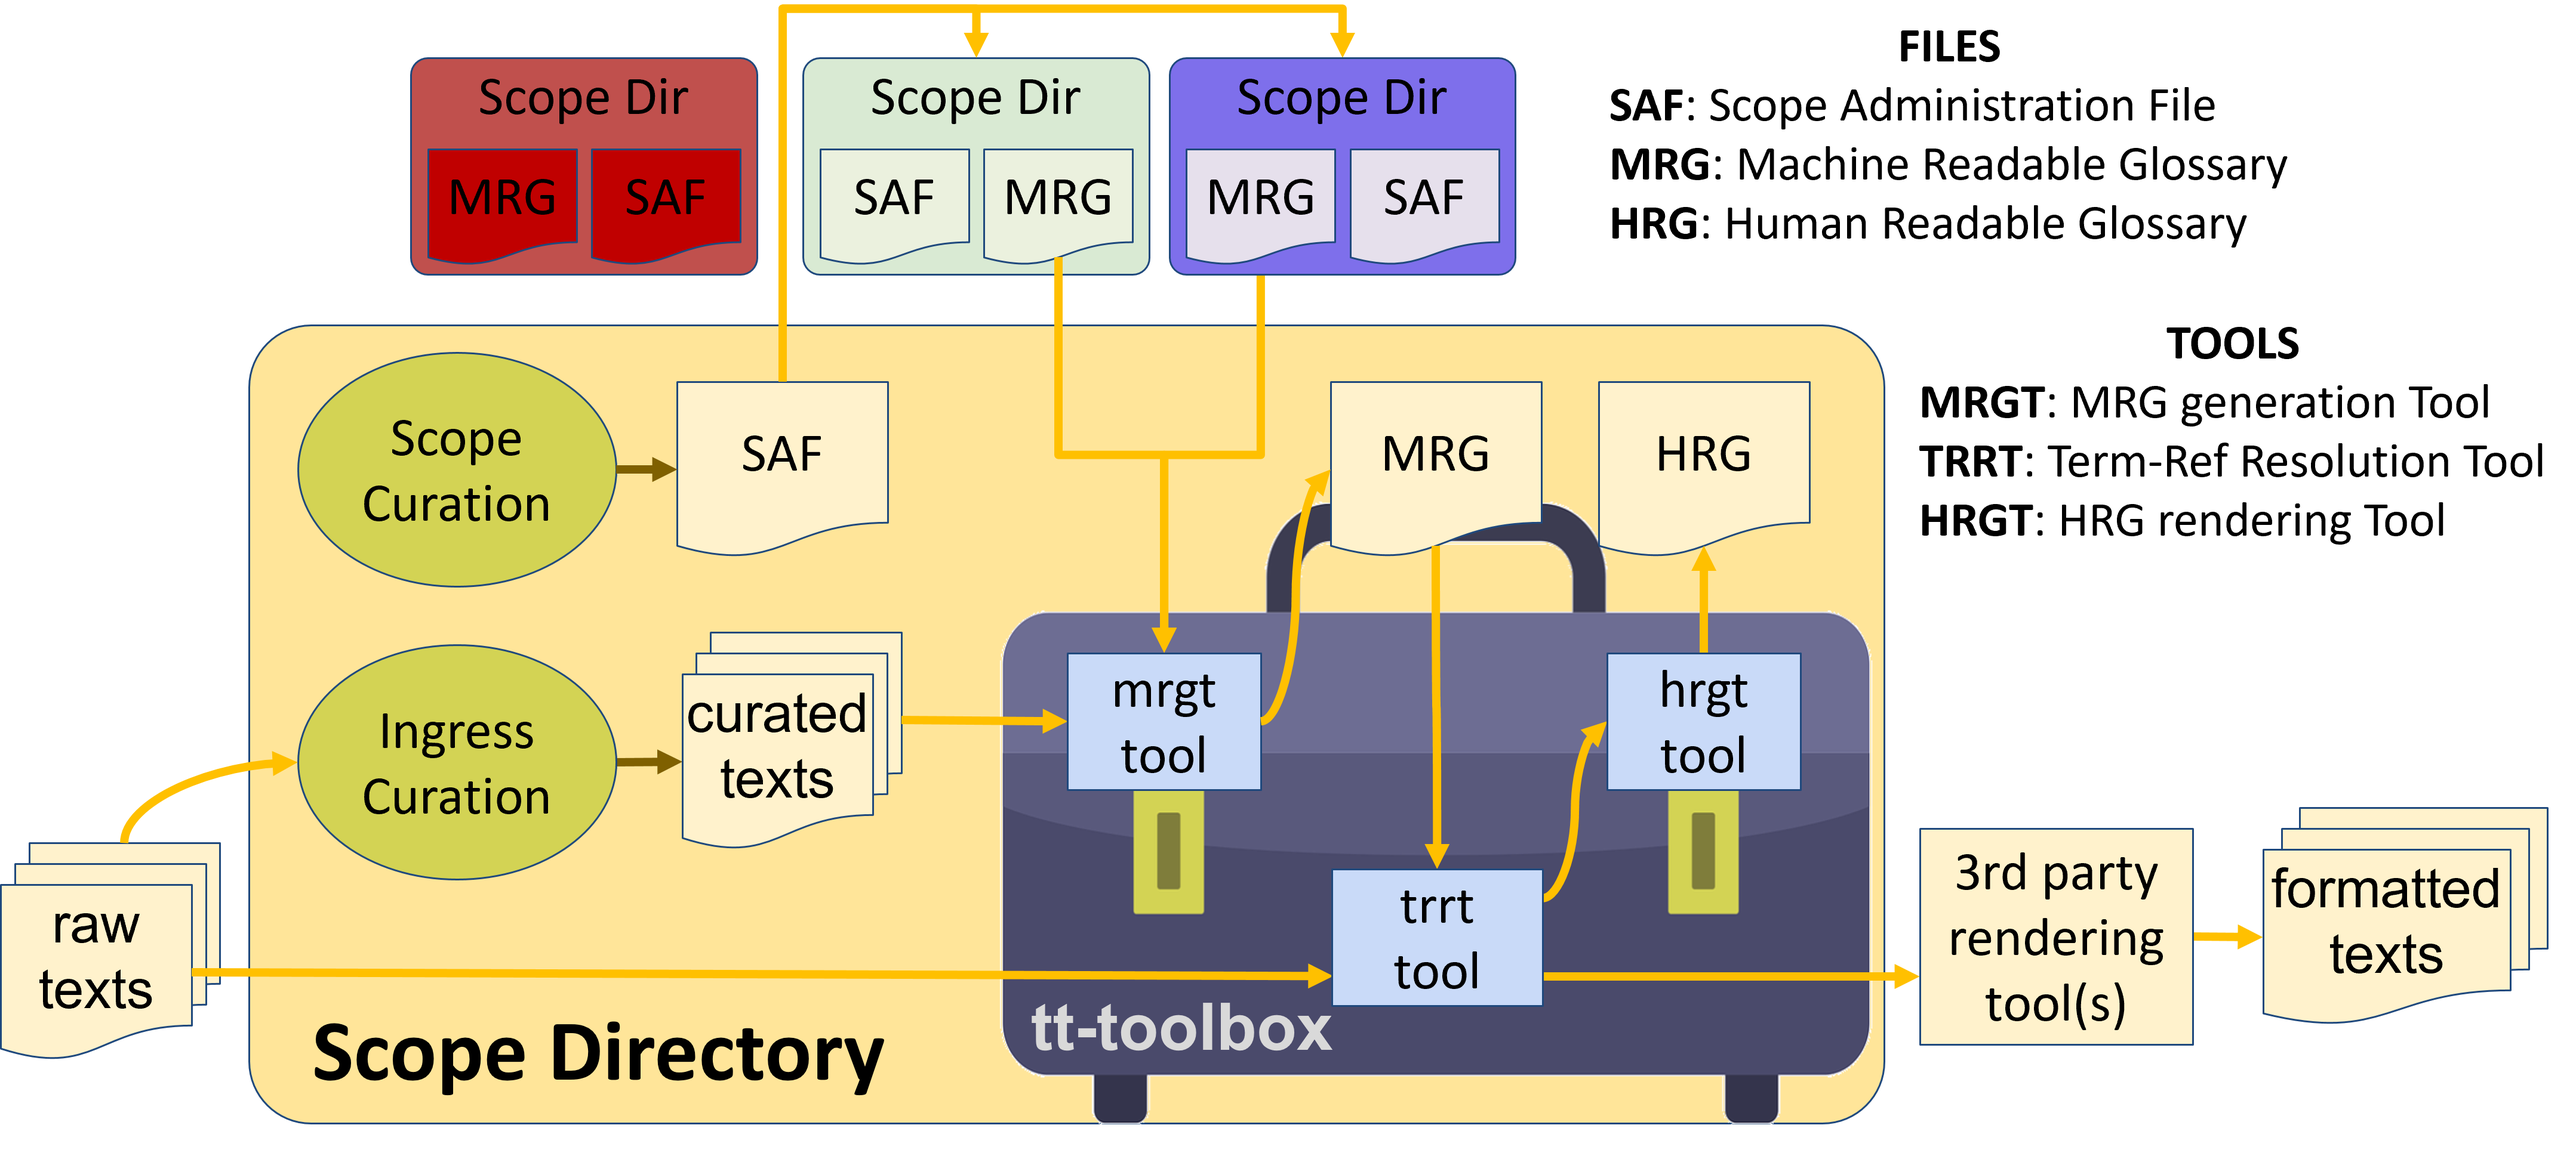
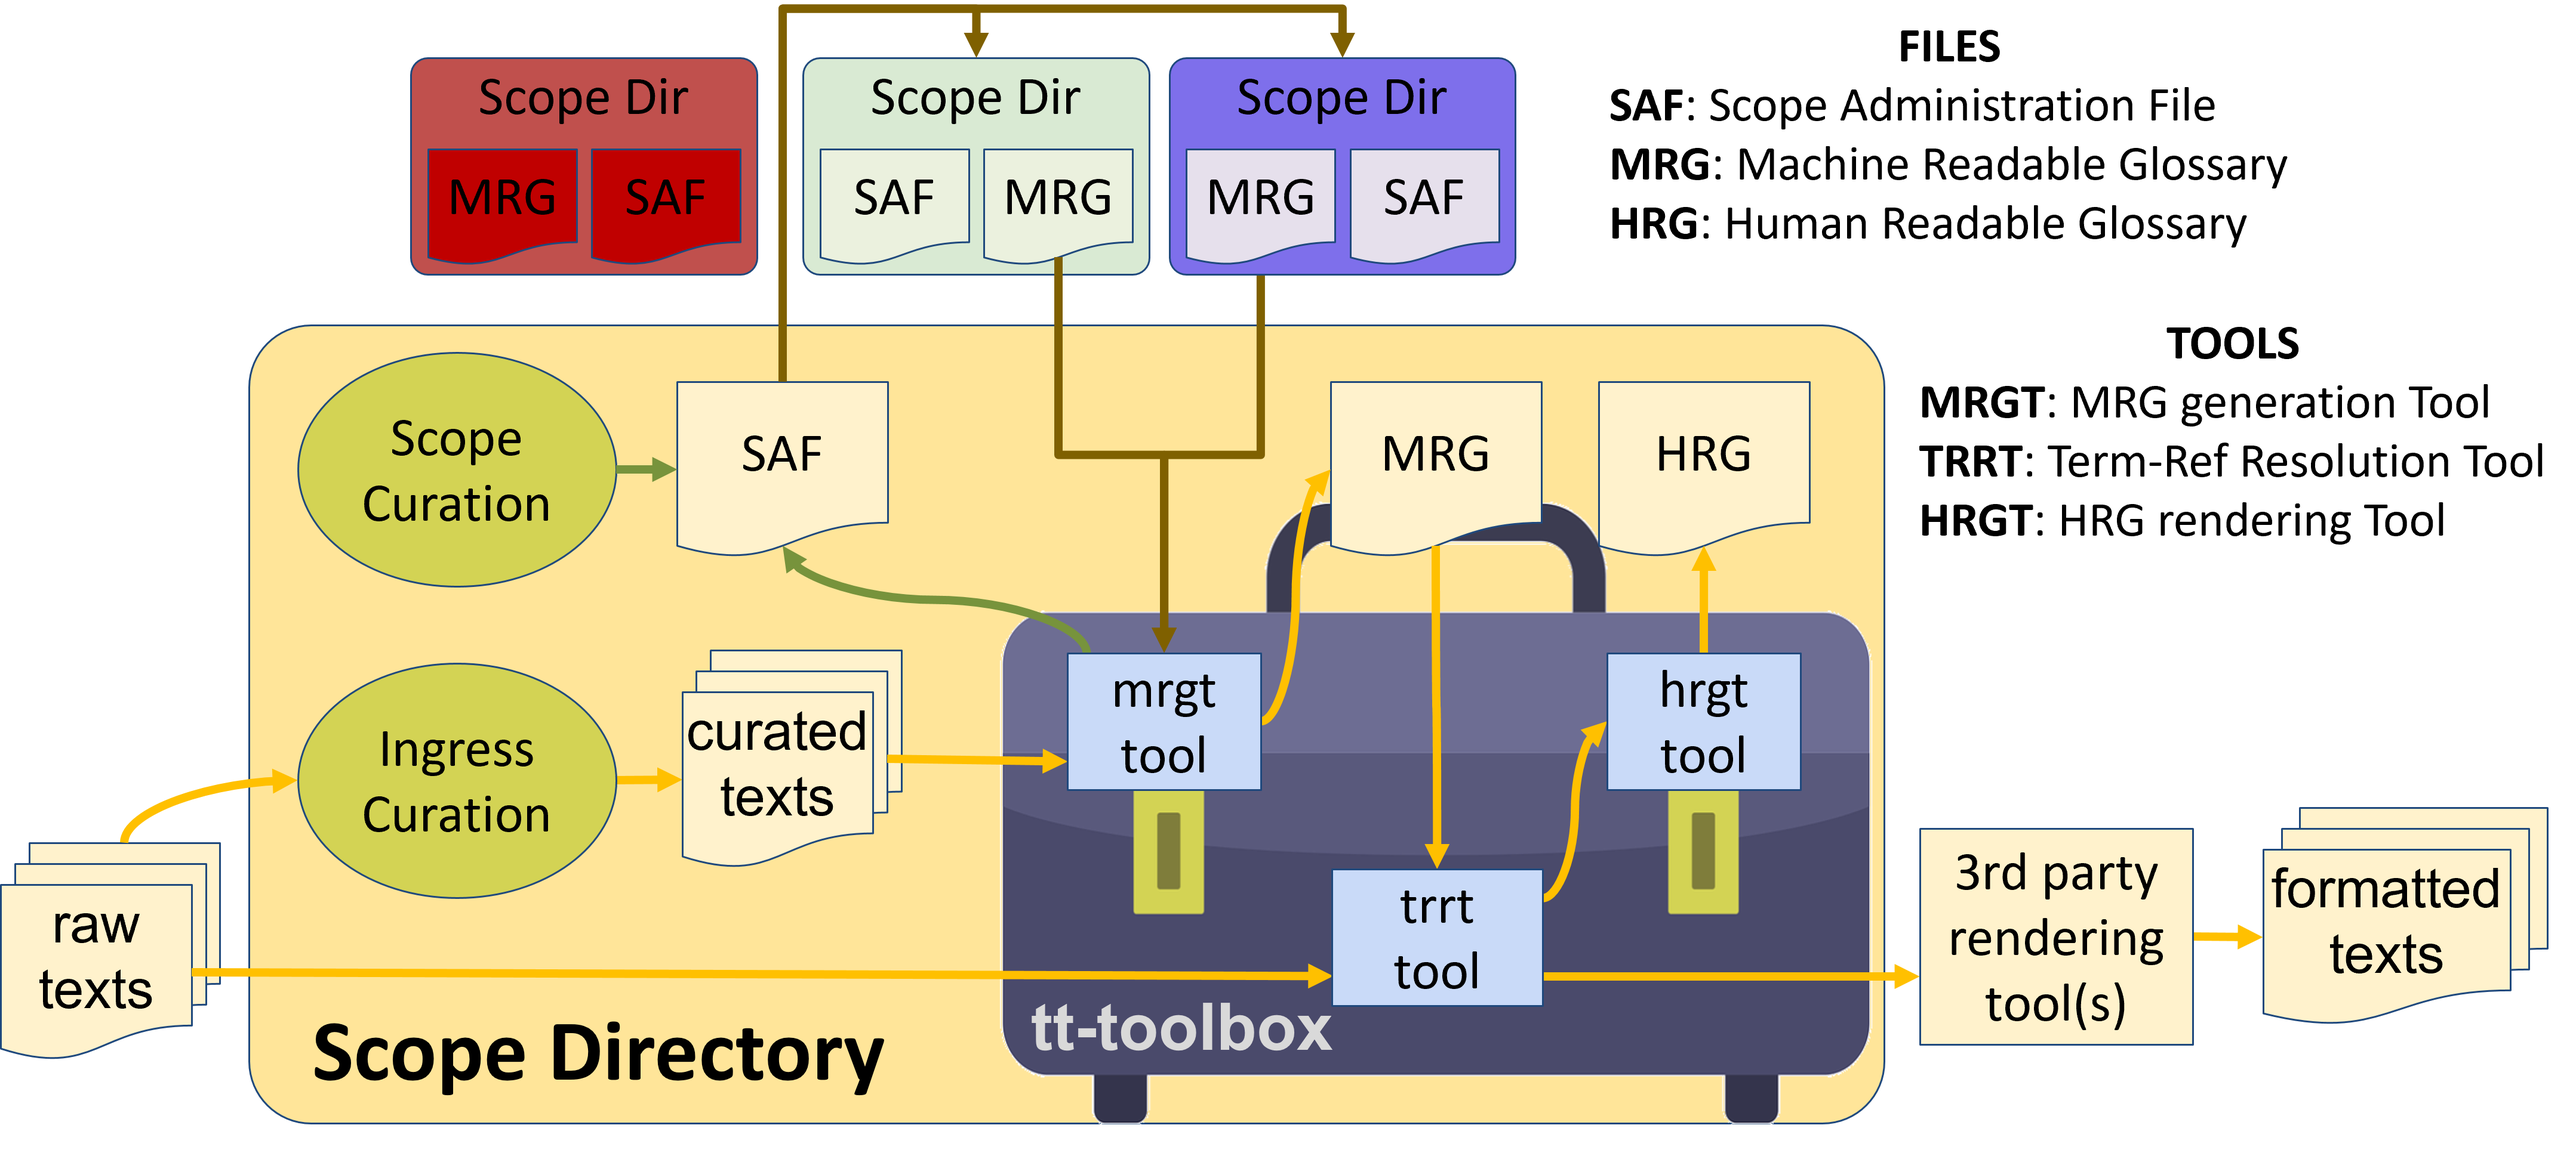
Revised TEv2 overview

diff --git a/docs/tev2/tev2-overview.md b/docs/tev2/tev2-overview.md
@@ -26,30 +26,55 @@ The current eSSIF-Lab (i.e.: this) website already shows the first ideas of what
 
 ## Introduction
 
-TEv2 not only facilitates individual authors or groups in dealing with their own [terminology](@), it specifically also caters for authors/groups using [terms](@) that others have [defined](@), without each author/group loosing their autonomy (control) over their own [terminologies](@). The following figure illustrates how that works:
+TEv2 not only facilitates individual authors or groups in dealing with their own [terminology](@), it specifically also caters for authors/groups using [terms](@) that others have [defined](@), without each author/group loosing their autonomy (control) over their own [terminologies](@).
+
+We assume that any author/group will create and maintain texts that concern a particular topic and that, from a terminological perspective, belong together. We also assume that such texts are 'raw', i.e. in a very simple format such as plain ASCII text, markdown, LaTex, etc., and somehow require a rendering step that turns them into 'formatted' texts, such as PDF, ODT, DOCX, or Google doc format. The reason for that is that the more complex a text format is, the more difficult it is to process them.
+
+This is illustrated in the figure below. The figure also shows the TEv2 'toolbox', which contains tools that can process raw texts prior to them being processed by the regular rendering tools that an author/group uses.
+
+<img
+  alt="Converting raw texts into formatted texts"
+  src={useBaseUrl('images/tev2-overview-without-toolbox.png')}
+/><br/><br/>
+
+One of the most useful tools in the toolbox is the Terminology Reference Resolver Tool ([TRRT](@)). This tool can process a raw text that contains so-called [Term Refs](term-ref@), and resolve them to a syntax that one or more specific 3rd party rendering tools can pick up and use to create enhanced formatted texts. The figure below shows a raw (markdown) text (in markdown), and the corresponding  formatted (web page, HTML) text that is the result of processing by the [TRRT](@) and subsequently by the Docusaurus rendering tools.
+
+<img
+  alt="The effect of the Terminology Reference Resolver Tool"
+  src={useBaseUrl('images/tev2-overview-enhanced-term.png')}
+/><br/><br/>
+
+If you are familiar with [markdown](https://www.markdownguide.org/basic-syntax/), you will notice that the raw text contains syntax that resembles [markdown links](https://www.markdownguide.org/basic-syntax/#links), but it's not quite conformant: it contains the `@` character, which signals (within TEv2) that this is not an ordinary link, but a link that will be resolved by the [TRRT](@). The [TRRT](@) will convert these links (which we call [term refs](term-ref@)) such that they are rendered as shown in the right of the figure: that is: in purple boldface, and when you hover your mouse over the term, it will show the definition of that term.
+
+## TEv2 Architecture
+
+TEv2 is designed to support an ever increasing variety of raw text formats, and its toolbox will - over time - be filled with an increasing number of tools that will support an increasing number of 3rd party rendering tools. This section shows the architecture that allows this to become reality.
+
+The architecture is based on the ToIP/eSSIF-Lab [Terminology Model](/docs/terms/pattern-terminology), which assumes that every author/group constitutes a so-called [terms-community](@) that [curates](@) one (or more) [scope(s)](@), that contains e.g. [definitions](@), [terms](@), [tags](@) etc. that constitute the author/group's [terminology](@). An overview is given in the figure below:
 
 <img
   alt="Curation of Terminology and its Tooling"
   src={useBaseUrl('images/tev2-overview.png')}
 /><br/><br/>
 
-We assume that any author/group will create and maintain texts that concern a particular topic and that, from a terminological perspective, belong together. These texts - specifically those that relate to terminology itself, are expected to reside in a single directory, which we call the [scope-directory](@) or [scopedir](@).
+The figure not only shows the raw texts, the their processing by the [TRRT](@) tool and the subsequent rendering to produce formatted texts, but also other files that exist within the [scope](@), and that are being [curated](@) by its [terms-community](@) (the author/group). TEv2 expects all files that are under [curation](@), and/or are generated to serve a purpose within a [scope](@), to live in a specific directory, which we call the [scope directory](@). The rounded rectangles in the figure represent such directories and (parts of) their contents.
 
-A [scopedir](@) typically contains:
-- [curated texts](@), i.e. texts that the author/gropu
+To the left of the figure, you can see that some raw texts are 'ingressed' into the [scope directory](@), and thereby have become so-called [curated texts](@). These texts typically contain descriptions of [terms](@), [definitions](@), examples, etc., that help interested [parties](@) to formulate and understand the [concepts](@) that they need. Such [curated texts](@) are then fed to the [MRGT](@) tool, that generates a Machine Readable [Glossary](@) ([MRG](@)) of the [scope's](@) [terminology](@).
 
-:::caution Caution! &nbsp&nbspxxxxxxxxxxxxxxxxxxxxxxxxxxx
-From this point onward the text needs to be revised.<br/>
-xxxxxxxxxxxxxxxxxxxxxxxxxxxxxxxxxxxxxxxxxxxxxxxxxx
+The [MRG](@) is also considered a 'raw text', and hence it can also be subjected to the [TRRT](@) to resolve any [term refs](@) that it may hold, and subsequently be rendered to result in a formatted text that we call a Human Readable Glossary or [HRG](@); we will use the term [HRGT](@) to refer to the rendering tool that produces the [HRG](@).
+
+Since the [terminology](@) of a [scope](@) may also include [terms](@) that are [defined](@) in other [scopes](@), the [MRGT](@) will need to know where to get the associated data. It can do so because every [scope directory](@) has a so-called Scope Administration File or [SAF](@), which contains:
+- meta-data concerning the [scope](@) itself, ways in which people can contribute, raise issues, see what's going on, discuss,  what license is being used, and how to contact [curators](@);
+- meta-data about the [scopes](@) that contain data that needs to be used/imported, which includes the URL of their respective [scope directories](@);
+- the specification (of various versions that are being maintained) of the [scope's](@) [terminology](@), which includes the set of [terms](@) the [definitions](@) of which come either from the [scope](@) itelf, or from one of the [scopes](@) that is listed in the [SAF](@).
+
+Thus, by inspecting the contents of the [SAF](@), the [MRGT](@) learns which [MRGs](@) of other [scopes](@) it needs to obtain, and where they are located. Also, the [MRGT](@) learns which [terms](@) and [definitions](@) of the [scope](@) itself are to be included in the [terminology](@) that is will be creating an [MRG](@) for.
+
+## Curation
+
+:::info Editor's note
+This section may need to be revised
 :::
-
-However, in order to use each other's terminological artifacts, some common ground needs to be established and maintained. This means that xxxxxxxxxxxxxxxxxxxxxxxxxxxxxxxxxxxxxxx
-This figure shows a green and yellow group of people that author documents and use their own (preferred) tools for that. They may make documentation that is rendered by a (static) website, or create LaTeX manuscripts and turn them into PDF files. They may use Github to collaborate of control versions, etc.
-
-
-TEv2 ensures that the [community](@) of [terms communities](@) that use it will be able to use each others [definitions](@), [terms](@) and other terminological artifacts without loosing their autonomy (control over the [terminologies](@) they [own](@) themselves).
-
-TEv2 is a set of tools whose purpose is to facilitate the work of [curators](@) of a [terms-community](@) that seeks to create and maintain one or more [terminologies](@) of their own, and use [terminologies](@) that are maintained by other [parties](@) that are members of the Trust over IP [community](@).
 
 TEv2 assumes that the [curated](@) data resides in an existing [scope directory](@), and that [curated files](@) are expected to be processable by other tools, including, but not limited to [github pages](https://pages.github.com/) or [Docusaurus](https://docusaurus.io/docs/docs-introduction), which are static site generators for web sites that document all sorts of guidance, specifications, etc. Such a [scope directory](@) must be [set up](tev2-installation) in advance.
 
@@ -58,7 +83,7 @@ Thus, whenever a [terms-community](@) decided that some contribution is to be in
 1. create/maintain/update any [scope](@)-related administration in the [scope directory](@) that is needed for curation, as specified by a [Scope Administration File (SAF)](tev2-spec-saf);
 2. convert that contribution to (a set of) [curated files](@), that comply with the [specifications](tev2-spec-ctext) for such files;
 3. store them at the location as designated in the [SAF](tev2-spec-saf);
-4. generate/update any artifact that the [community](terms-community@) wants to automatically maintain, such as a [glossary](@) for its [terminology](@).
+4. generate/update any artifact that the [community](terms-community@) wants to automatically maintain, which in particular includes the [MRG](@) and associated [HRG](@).
 
 This document provides an overview of the knowledge that [curators](@) may need to perform this task, which can be broken up in the following parts:
 
